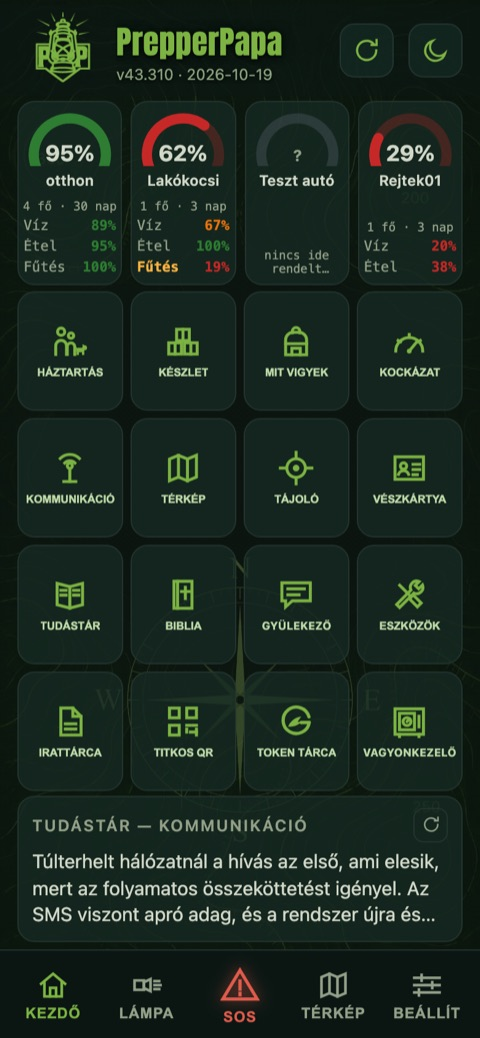
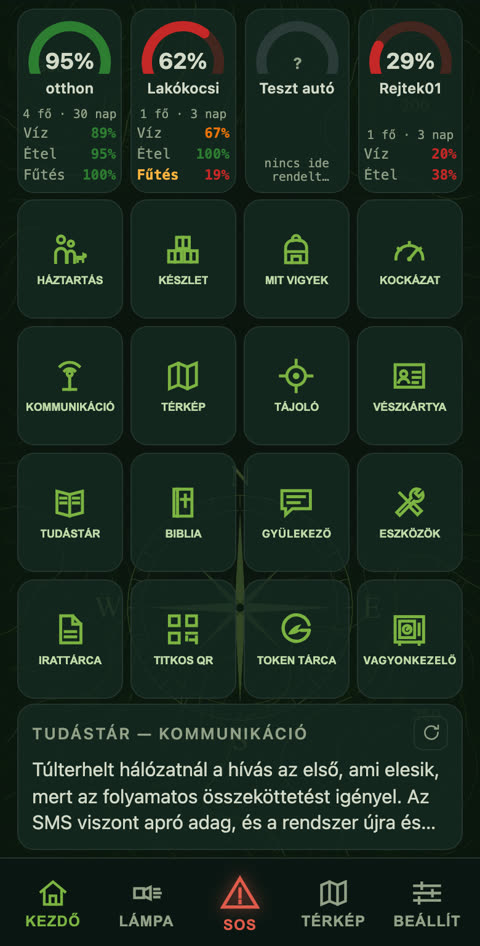
app aloldal: technikai reszletek kiveve (Fonok 20:50)

diff --git a/app/index.html b/app/index.html
@@ -86,12 +86,12 @@
 <p class="beveze">Felkészülés a zsebedben, internet nélkül. Ami egy áramszünetben, egy elakadt autó mellett vagy egy erdei túrán kell, az egy helyen van, és akkor is működik, amikor a net és a térerő már nem.</p>
 <p>A PrepperPapa csatorna évek óta mutatja, hogyan lehet józanul felkészülni. Az alkalmazás ezt teszi a telefonodra: kiszámolja, mennyire vagytok felkészülve, és segít ott, ahol épp kell.</p>
 <div class="kepek">
-<figure><img src="/app/kepek/1-kezdolap.jpg" alt="Kezdőlap: készültség helyszínenként" loading="lazy" width="480" height="1038"><figcaption>Készültség helyszínenként</figcaption></figure>
+<figure><img src="/app/kepek/1-kezdolap.jpg" alt="Kezdőlap: készültség helyszínenként" loading="lazy" width="480" height="946"><figcaption>Készültség helyszínenként</figcaption></figure>
 <figure><img src="/app/kepek/2-terkep.jpg" alt="Térkép túratervvel" loading="lazy" width="480" height="1038"><figcaption>Túraterv a térképen</figcaption></figure>
-<figure><img src="/app/kepek/8-keszlet.jpg" alt="Készletlista lejárat-figyelővel" loading="lazy" width="480" height="1038"><figcaption>Készlet és lejárat</figcaption></figure>
-<figure><img src="/app/kepek/3-tudastar.jpg" alt="Tudástár" loading="lazy" width="480" height="1038"><figcaption>Tudástár</figcaption></figure>
-<figure><img src="/app/kepek/4-tajolo.jpg" alt="Tájoló hangvezetéssel" loading="lazy" width="480" height="1038"><figcaption>Tájoló</figcaption></figure>
-<figure><img src="/app/kepek/6-biblia.jpg" alt="Biblia internet nélkül" loading="lazy" width="480" height="1038"><figcaption>Biblia</figcaption></figure>
+<figure><img src="/app/kepek/8-keszlet.jpg" alt="Készletlista lejárat-figyelővel" loading="lazy" width="480" height="946"><figcaption>Készlet és lejárat</figcaption></figure>
+<figure><img src="/app/kepek/3-tudastar.jpg" alt="Tudástár" loading="lazy" width="480" height="946"><figcaption>Tudástár</figcaption></figure>
+<figure><img src="/app/kepek/4-tajolo.jpg" alt="Tájoló hangvezetéssel" loading="lazy" width="480" height="946"><figcaption>Tájoló</figcaption></figure>
+<figure><img src="/app/kepek/6-biblia.jpg" alt="Biblia internet nélkül" loading="lazy" width="480" height="946"><figcaption>Biblia</figcaption></figure>
 </div>
 <h2>Mit tud? Hat helyzet, tizennyolc funkció</h2>
 <div class="helyzet"><h3>Ha elmegy a net</h3><ul>
@@ -111,7 +111,7 @@
 </ul></div>
 <div class="helyzet"><h3>Nincs térerő</h3><ul>
 <li><b>Helyi üzenetek.</b> Szöveges üzenet a környezetedben lévőknek internet nélkül, egy közös hálón, akár egy telefon hotspotján.</li>
-<li><b>Morze és fax.</b> Morzejel hanggal és villogó fénnyel, és kép küldése hangon (SSTV).</li>
+<li><b>Morze és fax.</b> Morzejel hanggal és villogó fénnyel, és kép küldése hangon.</li>
 <li><b>Titkos QR.</b> Üzenet, helyzet vagy lista QR-kódban, amit csak az olvas el, aki ismeri a családi jelszavatokat.</li>
 </ul></div>
 <div class="helyzet"><h3>Terepen</h3><ul>
@@ -129,12 +129,12 @@
 <p>Ami a telefonodra került, az ott is marad. Amit feloldottál, az internet nélkül is feloldva marad.</p>
 <h2>Mi ingyenes, és mit old fel a prémium kód?</h2>
 <p>Az alkalmazás nagy része ingyenes, és az is marad: a készültség-számítás, a kalkulátorok, a térkép, a tájoló, a zseblámpa, a vészkártya és a tudástár alapcikkei.</p>
-<p>A <b>prémium kód</b> feloldja a bővített tudástárat (a mélyebb, részletes cikkeket) és a Vagyonkezelőt. A kódot az alkalmazás Beállítások képernyőjén, a Feloldás részben váltod be.</p>
+<p>A <b>prémium kód</b> feloldja a bővített tudástárat (a mélyebb, részletes cikkeket) és a Vagyonkezelőt.</p>
 <h2 id="vasarlas">Prémium kód</h2>
 <div class="vasarlas" id="pp-premium-vasarlas">
 <p class="ar">39,90 €</p>
 <p class="halk">Bevezető ár, később 49,90 €. Ha egy partnerünk kuponkódjával érkezel, további 5% kedvezményt kapsz.</p>
-<p>A kód a fiókodhoz kötődik, és legfeljebb két készülékeden működik. Internet nélkül soha nem zár le semmit.</p>
+<p>Egy kóddal legfeljebb két készülékeden használhatod. Internet nélkül soha nem zár le semmit.</p>
 <!-- CHECKOUT HOOK (Marveen): a vásárlási űrlap/gomb ennek az elemnek a HELYÉRE kerül, amikor a pp-vasarlas élesbe áll.
      Addig a "Hamarosan" értesítő látszik. Element id: pp-checkout -->
 <div id="pp-checkout">
@@ -143,20 +143,19 @@
 </div>
 </div>
 <h2 id="letoltes">Letöltés</h2>
-<p><b>Android:</b> hamarosan a Google Play áruházban. Az alkalmazás jelenleg zárt tesztelés alatt áll.</p>
-<p><b>iPhone:</b> a böngészőből fut, webes alkalmazásként, telepítés nélkül.</p>
+<p><b>Android:</b> hamarosan a Google Play áruházban.</p>
+<p><b>iPhone:</b> böngészőből is használható.</p>
 <!-- TESZTELŐI VÉLEMÉNYEK: a tesztelési menet végén kérjük (26c3272b), engedéllyel.
      Amíg nincs közzétehető vélemény, a szakasz rejtve marad (hidden), üres szakasz nem megy ki. -->
 <section id="velemenyek" hidden>
 <h2>Akik már kipróbálták</h2>
 </section>
 <h2>Gyakori kérdések</h2>
-<details><summary>Milyen telefonon működik?</summary><p>Androidon telepíthető alkalmazásként, iPhone-on a böngészőből, webes alkalmazásként.</p></details>
+<details><summary>Milyen telefonon működik?</summary><p>Androidon (hamarosan a Google Play áruházban) és iPhone-on, böngészőből.</p></details>
 <details><summary>Kell hozzá internet?</summary><p>A használatához nem. Internet a letöltéshez, a frissítésekhez és a kód beváltásához kell. Ami egyszer a telefonodra került, az hálózat nélkül is működik.</p></details>
-<details><summary>Hol vannak az adataim?</summary><p>A telefonodon. Az alkalmazás a prémium kód azonosítóján és a Szobákon (üzenetküldés) kívül nem gyűjt rólad azonosításra alkalmas adatot. A Szobáknak külön szabályzata van.</p></details>
+<details><summary>Hol vannak az adataim?</summary><p>A telefonodon. A részleteket az <a href="/adatkezeles.html">Adatkezelés</a> oldalon találod.</p></details>
 <details><summary>Leáll valami, ha nem veszek kódot?</summary><p>Nem. Az ingyenes rész ingyenes marad, és egyetlen funkció sem áll le.</p></details>
-<details><summary>Hol találom a használati útmutatót?</summary><p>Itt: <a href="/utmutato/">prepperpapa.hu/utmutato</a>. Az alkalmazás Súgójából is elérhető.</p></details>
-<p class="halk" style="margin-top:28px">Az alkalmazás jelenleg zárt tesztelés alatt áll.</p>
+<details><summary>Hol találom a használati útmutatót?</summary><p>A <a href="/utmutato/">Használati útmutató</a> oldalon, és az alkalmazás Súgójából is.</p></details>
 </main>
 <footer><div>PrepperPapa &middot; Felkészülés józan ésszel, magyar valóságra
 &middot; <a href="/adatkezeles.html">Adatkezelés</a></div></footer>

diff --git a/utmutato/index.html b/utmutato/index.html
@@ -92,7 +92,7 @@
 <li>Írd be a kódot. Jelszó nem kell.</li>
 </ol>
 <h3>Prémium kód beváltása</h3>
-<p>Ha prémium kódot kaptál, a <b>Beállítások</b> képernyőn, a <b>Feloldás</b> részben írd be. A beváltáshoz hálózat kell, utána a feloldott részek internet nélkül is működnek. Ha ugyanazon a telefonon újra beváltod (például újratelepítés után), az nem hiba.</p>
+<p>Ha prémium kódot kaptál, a <b>Beállítások</b> képernyőn, a <b>Feloldás</b> részben írd be. A beváltáshoz hálózat kell, utána a feloldott részek internet nélkül is működnek.</p>
 <h3>A család felvétele</h3>
 <p>Kezdd a <b>Háztartás</b> képernyővel: vedd fel, kik élnek veletek. Ebből számol a készültség, a fejadag és a „Mit vigyek?” csomaglista.</p>
 
